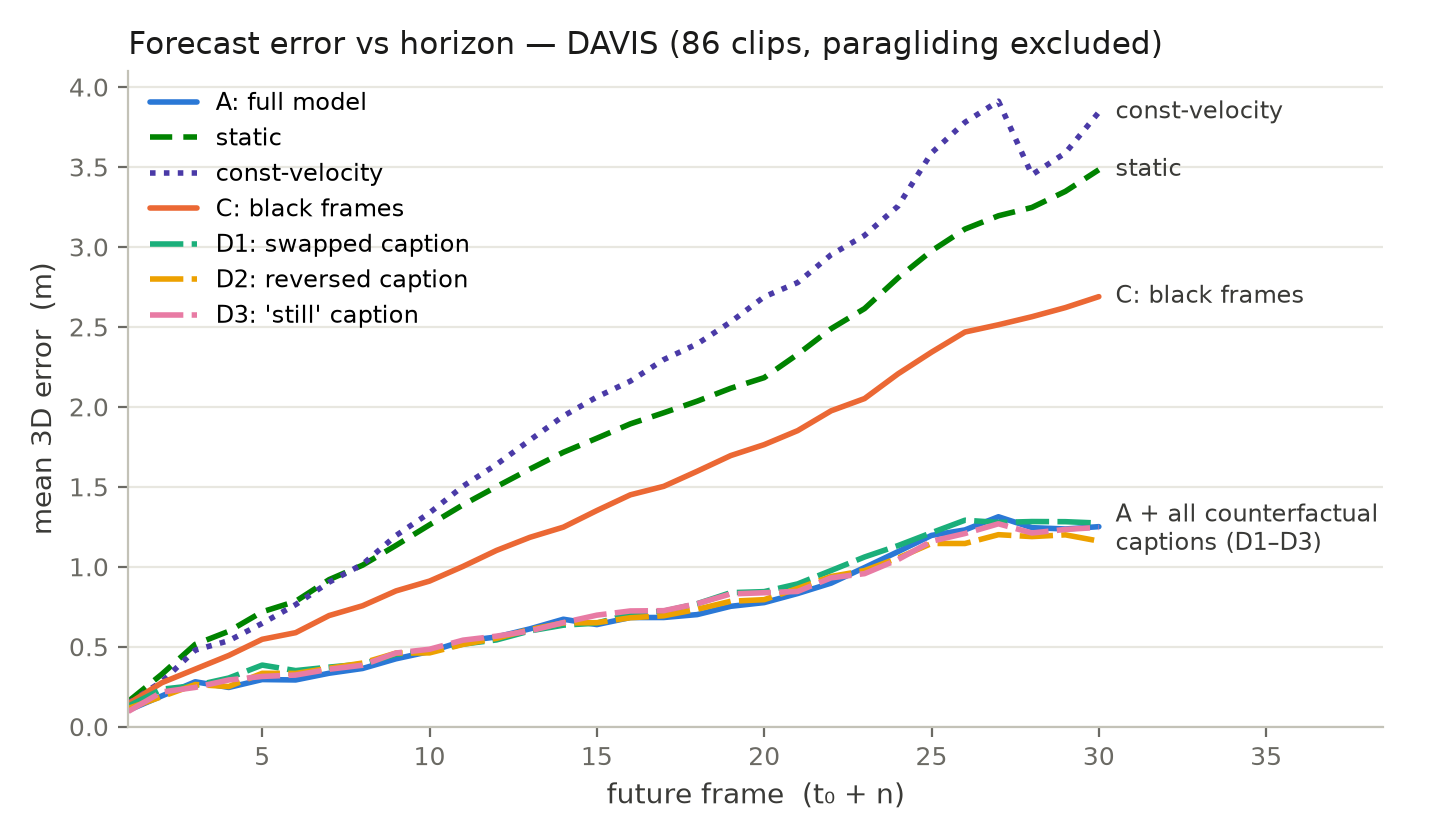
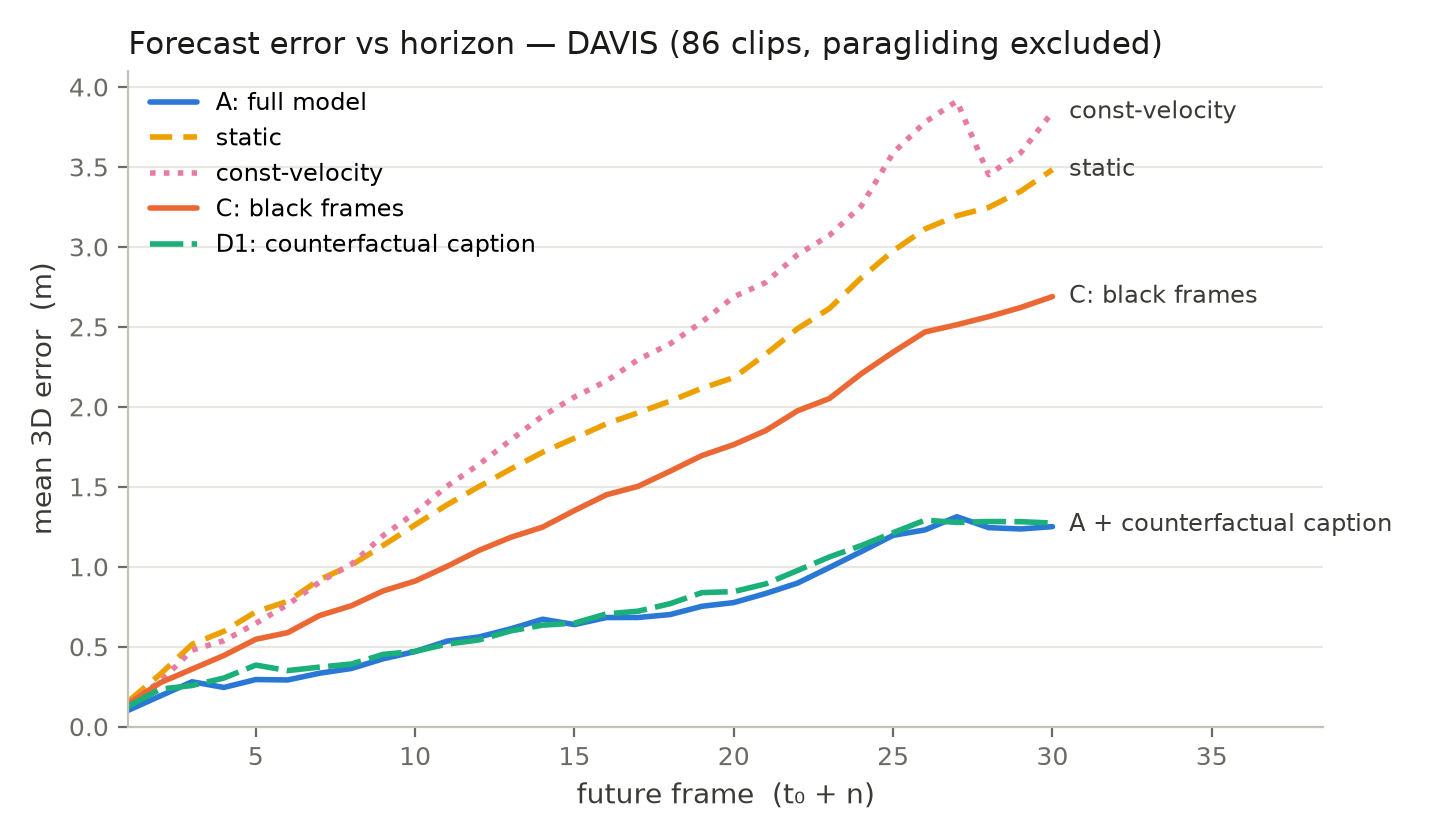
T1/T3 presentation: report A, C, D1 (full 5-condition record kept internally)

diff --git a/test3.html b/test3.html
@@ -14,16 +14,14 @@
 <div id="sub">PointMotionBench-DAVIS &middot; 86 clips &middot; one degenerate-depth clip (paragliding) excluded from ALL conditions identically &middot; 24 points/clip &middot; fixed t&#8320; &middot; MolmoMotion-4B-H3-F30</div>
 <table>
 <tr><th>Condition</th><th>ADE &darr;</th><th>FDE &darr;</th><th>PWT &uarr;</th><th>clip-mean ADE</th><th>clip-median ADE</th></tr>
-<tr><td>A — full model (true caption)</td><td>0.686</td><td>1.404</td><td><b>0.177</b></td><td>0.707</td><td><b>0.431</b></td></tr>
+<tr><td>A — full model (true caption)</td><td><b>0.686</b></td><td><b>1.404</b></td><td><b>0.177</b></td><td><b>0.707</b></td><td><b>0.431</b></td></tr>
 <tr><td>C — black history frames (vision removed)</td><td>1.401</td><td>2.845</td><td>0.091</td><td>1.421</td><td>0.897</td></tr>
-<tr><td>D1 — swapped caption (wrong object+action)</td><td>0.716</td><td>1.427</td><td><b>0.177</b></td><td>0.743</td><td><b>0.431</b></td></tr>
-<tr><td>D2 — direction-reversed caption</td><td><b>0.680</b></td><td><b>1.298</b></td><td>0.173</td><td><b>0.705</b></td><td>0.465</td></tr>
-<tr><td>D3 — "remains completely still" caption</td><td>0.697</td><td>1.370</td><td><b>0.177</b></td><td>0.726</td><td>0.435</td></tr>
+<tr><td>D1 — counterfactual caption (swapped object+action)</td><td>0.716</td><td>1.427</td><td><b>0.177</b></td><td>0.743</td><td><b>0.431</b></td></tr>
 </table>
 <img src="data/horizon_curve.png" alt="mean 3D error vs forecast horizon">
 <p><b>Reading:</b> removing vision (C) doubles the error (ADE 1.40 vs 0.69; clip-median 0.90 vs
-0.43), while ALL three adversarial-caption conditions — wrong object+action (D1), reversed
-direction (D2), and an explicit "remains completely still" (D3) — stay within &plusmn;0.03 ADE of
-the true caption (clip-medians 0.43&ndash;0.47), i.e. statistically indistinguishable. On real
-video the model's predictions are driven by visual dynamics, not caption templates.</p>
+0.43), while replacing the caption with a counterfactual one — the wrong object and action from a
+different clip (D1) — leaves accuracy essentially unchanged (&Delta;ADE 0.03; identical clip-median
+and PWT). On real video the model's predictions are driven by visual dynamics, not caption
+templates.</p>
 </body></html>
